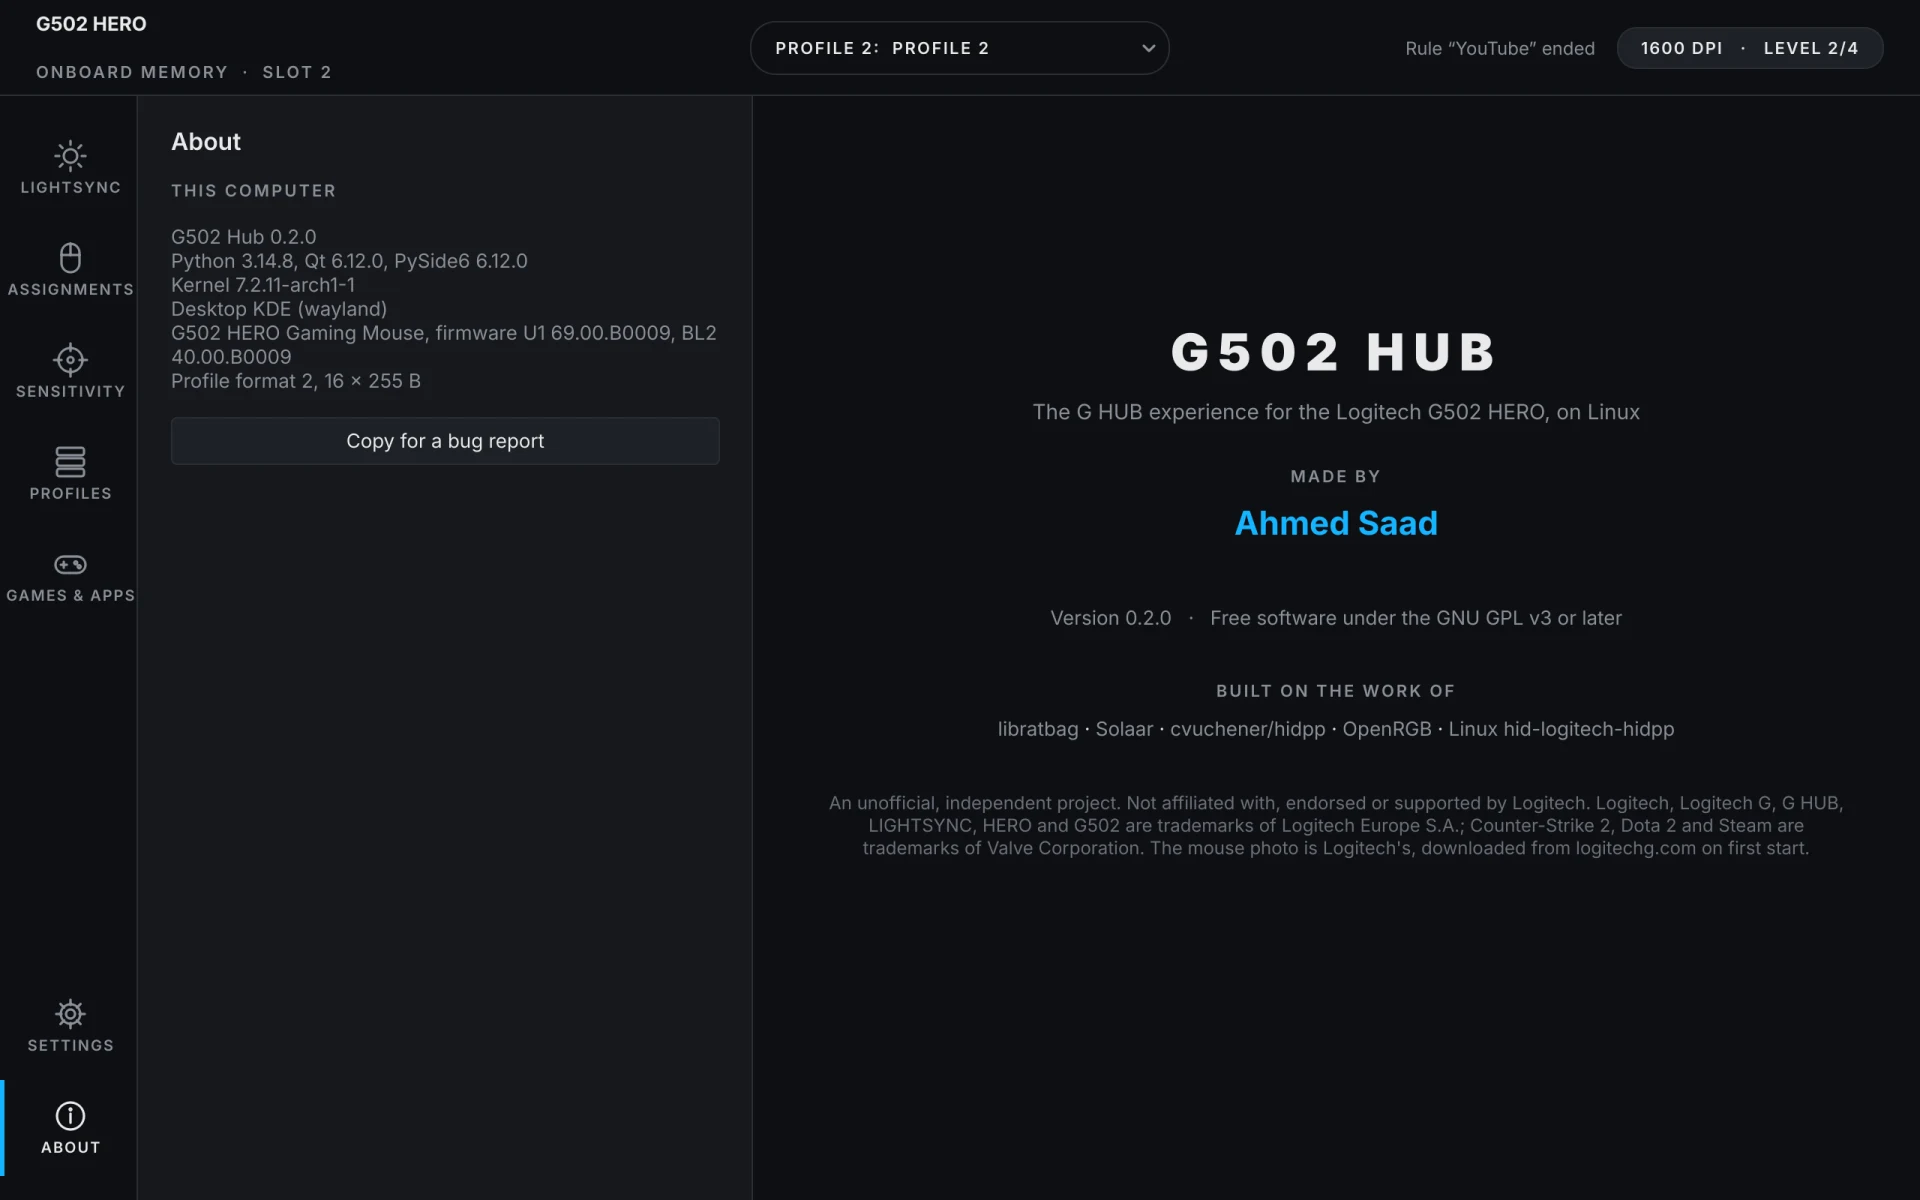
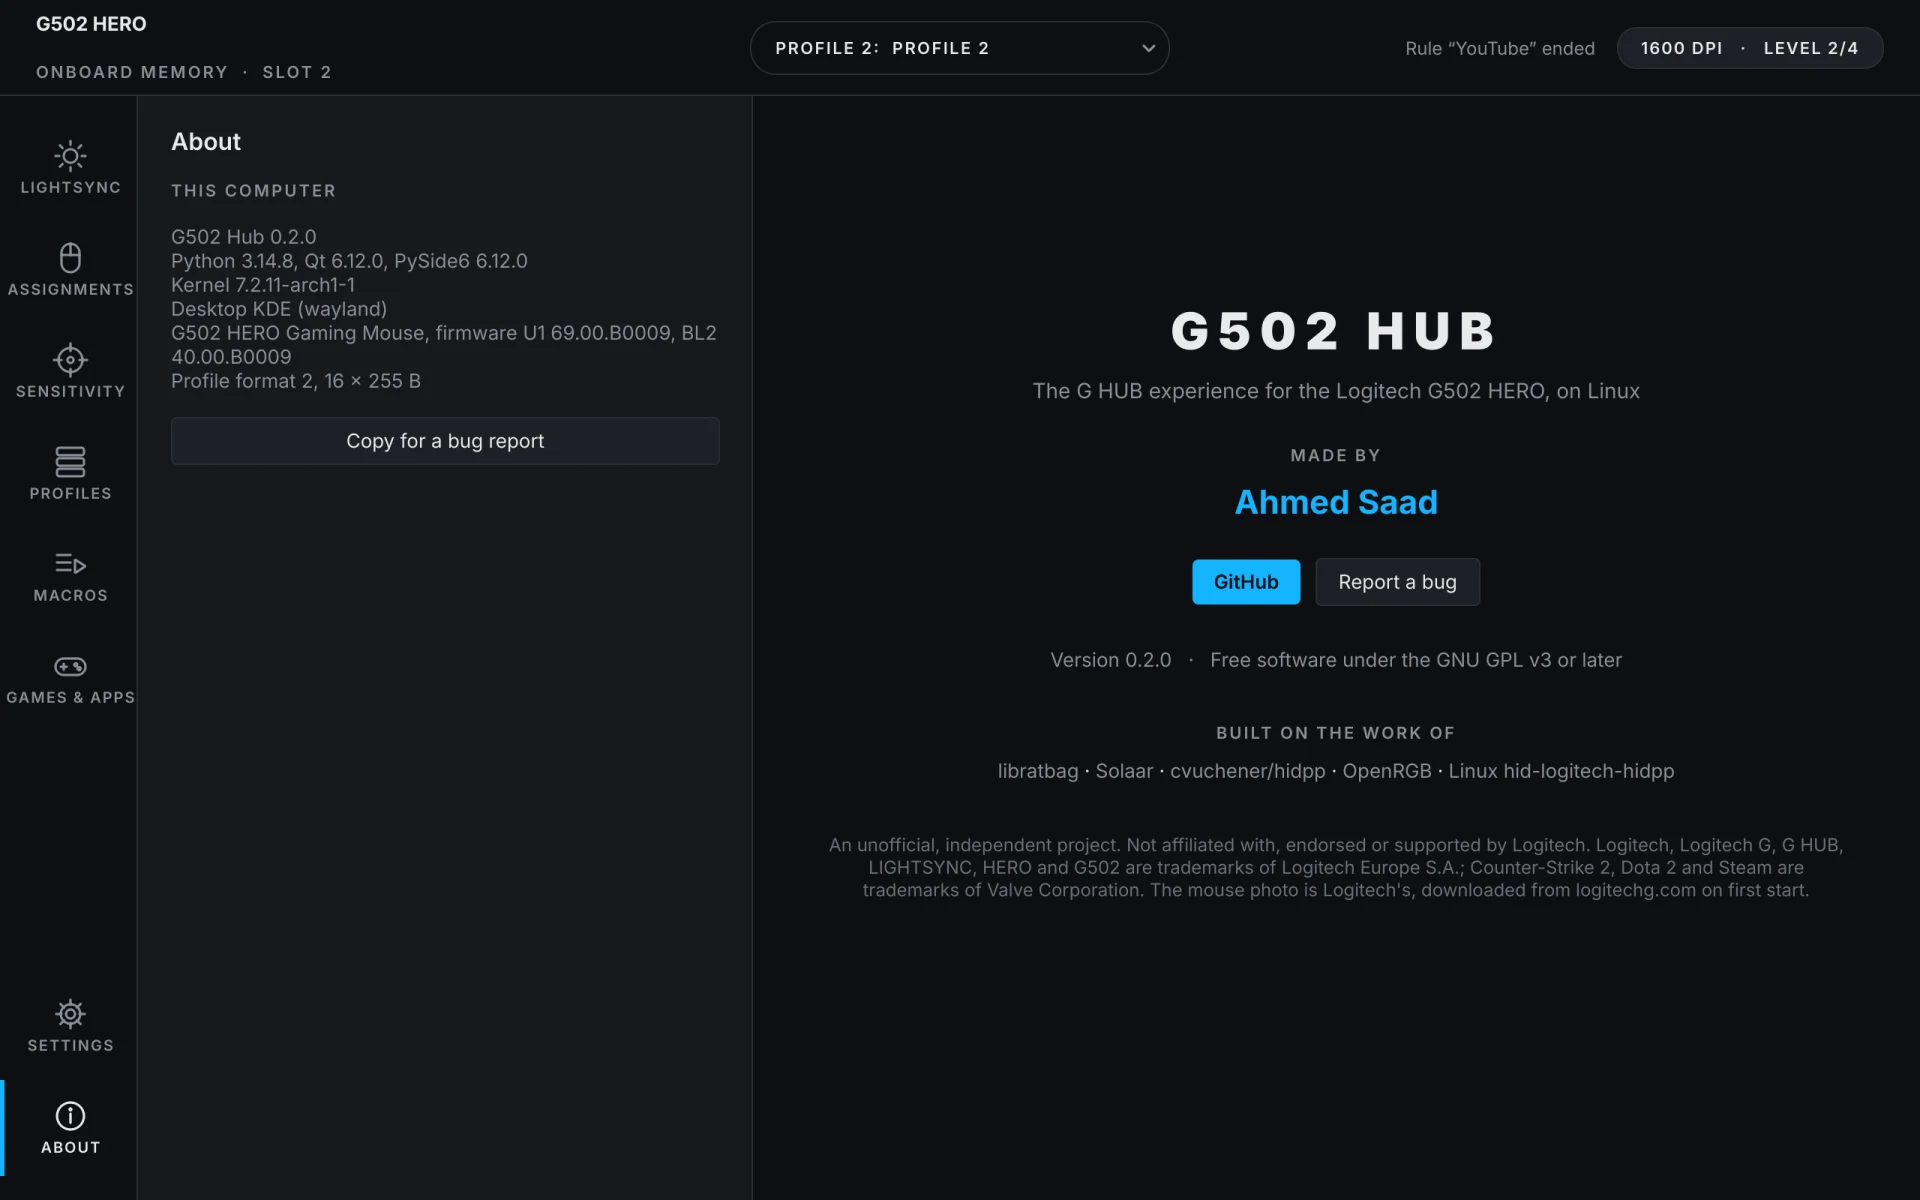
Bring back full screenshots with the mouse photo in the README
The README shows the whole app again, Logitech's photo included, from
docs/screenshots. The website keeps the panel crops and puts Logitech's
own copy of the photo next to them, loaded live from logitechg.com.

Changed region(s): [[0.4375, 0.2467, 0.9688, 0.7708], [0.0, 0.4625, 0.0625, 0.5242], [0.0, 0.555, 0.0625, 0.5858]]

diff --git a/website/index.html b/website/index.html
@@ -353,7 +353,7 @@ footer .fine { grid-column: 1 / -1; font-size: 13px; color: var(--dust); max-wid
     <figure class="appwin" data-colors="#ff2d95,#00e5ff">
       <div class="appbar"><b>G502 HERO</b><span class="pill">PROFILE 2: PROFILE 2</span><span class="pill dpi">1600 DPI · LEVEL 3/4</span></div>
       <div class="appbody">
-        <img src="screenshots/lighting-live.webp" width="1004" height="1472" alt="The Lightsync page with the screen sampler selected" loading="eager">
+        <img src="screenshots/lighting-live-panel.webp" width="1004" height="1472" alt="The Lightsync page with the screen sampler selected" loading="eager">
         <canvas class="lit" width="778" height="736" aria-hidden="true"></canvas>
       </div>
       <figcaption>LIGHTSYNC · LIVE EFFECTS</figcaption>
@@ -376,7 +376,7 @@ footer .fine { grid-column: 1 / -1; font-size: 13px; color: var(--dust); max-wid
     <figure class="appwin" data-colors="#14b4ff,#14b4ff">
       <div class="appbar"><b>G502 HERO</b><span class="pill">PROFILE 2: PROFILE 2</span><span class="pill dpi">1600 DPI · LEVEL 3/4</span></div>
       <div class="appbody">
-        <img src="screenshots/sensitivity.webp" width="1004" height="1472" alt="The Sensitivity page with four DPI levels on a track and the report rate at 1000 Hz" loading="lazy">
+        <img src="screenshots/sensitivity-panel.webp" width="1004" height="1472" alt="The Sensitivity page with four DPI levels on a track and the report rate at 1000 Hz" loading="lazy">
         <canvas class="lit" width="778" height="736" aria-hidden="true"></canvas>
       </div>
       <figcaption>SENSITIVITY</figcaption>
@@ -400,7 +400,7 @@ footer .fine { grid-column: 1 / -1; font-size: 13px; color: var(--dust); max-wid
     <figure class="appwin" data-colors="#3ddc84,#3ddc84">
       <div class="appbar"><b>G502 HERO</b><span class="pill">PROFILE 2: PROFILE 2</span><span class="pill dpi">1600 DPI · LEVEL 3/4</span></div>
       <div class="appbody">
-        <img src="screenshots/assignments.webp" width="1004" height="1472" alt="The Assignments page with the G6 sniper button selected" loading="lazy">
+        <img src="screenshots/assignments-panel.webp" width="1004" height="1472" alt="The Assignments page with the G6 sniper button selected" loading="lazy">
         <canvas class="lit" width="778" height="736" aria-hidden="true"></canvas>
       </div>
       <figcaption>ASSIGNMENTS</figcaption>
@@ -445,7 +445,7 @@ footer .fine { grid-column: 1 / -1; font-size: 13px; color: var(--dust); max-wid
       <figure class="appwin" data-colors="#ff1e1e,#ff1e1e">
       <div class="appbar"><b>G502 HERO</b><span class="pill">PROFILE 2: PROFILE 2</span><span class="pill dpi">1600 DPI · LEVEL 3/4</span></div>
       <div class="appbody">
-        <img src="screenshots/games.webp" width="1004" height="1472" alt="The Games and apps page with a YouTube rule active" loading="lazy">
+        <img src="screenshots/games-panel.webp" width="1004" height="1472" alt="The Games and apps page with a YouTube rule active" loading="lazy">
         <canvas class="lit" width="778" height="736" aria-hidden="true"></canvas>
       </div>
       <figcaption>GAMES & APPS</figcaption>

diff --git a/tools/screenshots.py b/tools/screenshots.py
@@ -1,13 +1,15 @@
 #!/usr/bin/env python3
 """Take the README / website screenshots in a demo setup.
 
-    QT_QPA_PLATFORM=offscreen tools/screenshots.py [OUT_DIR]
+    QT_QPA_PLATFORM=offscreen tools/screenshots.py
 
 Needs the mouse plugged in (the pages show its real profiles), but never
 changes it: LED writes are switched off and the rules use made-up activity.
-Settings go to a throwaway folder. Pages that show the mouse are saved as just
-the rail and settings panel, since the photo is Logitech's and isn't ours to
-publish; the website puts Logitech's own copy next to them.
+Settings go to a throwaway folder. Every page is saved as the full window in
+docs/screenshots/ (for the README). For the website, pages that show the mouse
+are saved as just the rail and settings panel (website/screenshots/NAME-panel.webp),
+shown there next to Logitech's photo loaded live from logitechg.com, and pages
+without the mouse as the full window.
 """
 
 import os
@@ -27,7 +29,8 @@ from PySide6.QtWidgets import QApplication  # noqa: E402
 from g502hub import context, device, settings  # noqa: E402
 from g502hub.rules import Rule  # noqa: E402
 
-OUT = Path(sys.argv[1] if len(sys.argv) > 1 else ROOT / "website" / "screenshots")
+FULL = ROOT / "docs" / "screenshots"
+SITE = ROOT / "website" / "screenshots"
 
 device.G502.set_led = lambda self, *a, **k: None  # screenshots never touch the lights
 
@@ -74,7 +77,8 @@ app.setStyleSheet(theme.STYLESHEET)
 w = MainWindow()
 w.resize(1280, 800)
 w.show()
-OUT.mkdir(parents=True, exist_ok=True)
+FULL.mkdir(parents=True, exist_ok=True)
+SITE.mkdir(parents=True, exist_ok=True)
 NEON = {0: QColor("#ff2d95"), 1: QColor("#00e5ff")}
 
 
@@ -109,15 +113,19 @@ def run(it=None, wait=0):
 
     def save():
         image = w.grab().toImage()
+        full = image.scaledToWidth(1920, Qt.TransformationMode.SmoothTransformation)
+        full.save(str(FULL / f"{name}.webp"), "WEBP", 88)
+        print(f"saved {FULL / name}.webp")
         if w.center.currentWidget() is w.view:
-            # Only the rail and settings panel: the mouse photo is Logitech's, so it's never in a screenshot
+            # The rail and settings panel alone: the website puts Logitech's photo next to it, live
             ratio = image.devicePixelRatio()
             panel = w.side.geometry().right() + 1
-            image = image.copy(0, round(64 * ratio), round(panel * ratio), round((w.height() - 64) * ratio))
+            crop = image.copy(0, round(64 * ratio), round(panel * ratio), round((w.height() - 64) * ratio))
+            crop.save(str(SITE / f"{name}-panel.webp"), "WEBP", 88)
+            print(f"saved {SITE / name}-panel.webp")
         else:
-            image = image.scaledToWidth(1920, Qt.TransformationMode.SmoothTransformation)
-        image.save(str(OUT / f"{name}.webp"), "WEBP", 88)
-        print(f"saved {OUT / name}.webp  {image.width()}x{image.height()}")
+            full.save(str(SITE / f"{name}.webp"), "WEBP", 88)
+            print(f"saved {SITE / name}.webp")
         run(it)
     QTimer.singleShot(900, save)
 

diff --git a/README.md b/README.md
@@ -7,11 +7,7 @@ button remapping with G-Shift, five onboard profiles, and rules that change
 everything when you start a game or a YouTube video. No Windows, no Wine,
 no root.
 
-<p align="center">
-  <img src="website/screenshots/lighting-live.webp" width="32%" alt="Live lighting effects">
-  <img src="website/screenshots/games.webp" width="32%" alt="Rules for games and apps">
-  <img src="website/screenshots/sensitivity.webp" width="32%" alt="DPI levels and report rate">
-</p>
+![G502 Hub: live lighting following the screen](docs/screenshots/lighting-live.webp)
 
 ## Install
 
@@ -91,16 +87,13 @@ playing contains something (browsers, mpv, VLC, Spotify, anime apps…).
 
 ## Screenshots
 
-<p align="center">
-  <img src="website/screenshots/lighting.webp" width="32%" alt="Lighting saved on the mouse, with the color wheel">
-  <img src="website/screenshots/assignments.webp" width="32%" alt="Button assignments">
-  <img src="website/screenshots/profiles.webp" width="64%" alt="The five onboard profiles">
-</p>
+| | |
+|---|---|
+| ![Games & apps rules](docs/screenshots/games.webp) | ![Lighting saved on the mouse](docs/screenshots/lighting.webp) |
+| ![Sensitivity](docs/screenshots/sensitivity.webp) | ![Assignments](docs/screenshots/assignments.webp) |
 
-Next to these panels the app shows a photo of your mouse with its lights
-recolored live. That photo is Logitech's, so it isn't part of this project or
-these screenshots: the app downloads it from logitechg.com the first time it
-starts ([NOTICE.md](NOTICE.md)).
+The mouse in the app is Logitech's product photo, which the app downloads from
+logitechg.com the first time it starts ([NOTICE.md](NOTICE.md)).
 
 ## Safety
 

diff --git a/NOTICE.md b/NOTICE.md
@@ -19,12 +19,12 @@ All other trademarks are the property of their respective owners.
 
 ## The mouse photo
 
-The picture of the mouse in the app is Logitech's product photo. It is **not
-part of this project** and is not included in this repository, its releases,
-packages or website. Each installation downloads it once, directly from
-Logitech's website (logitechg.com), the first time the app starts, and keeps
-it in `~/.local/share/g502-hub/` for that user. The project website shows it
-the same way: each visitor's browser loads it from Logitech's server.
+The picture of the mouse in the app is Logitech's product photo. The photo file
+is not part of this project's code or packages: each installation downloads it
+once, directly from Logitech's website (logitechg.com), the first time the app
+starts, and keeps it in `~/.local/share/g502-hub/` for that user. The project
+website loads it the same way, from Logitech's server. Screenshots of the app
+in this repository show the app as it looks, with that photo in it.
 
 ## How the mouse is supported
 
